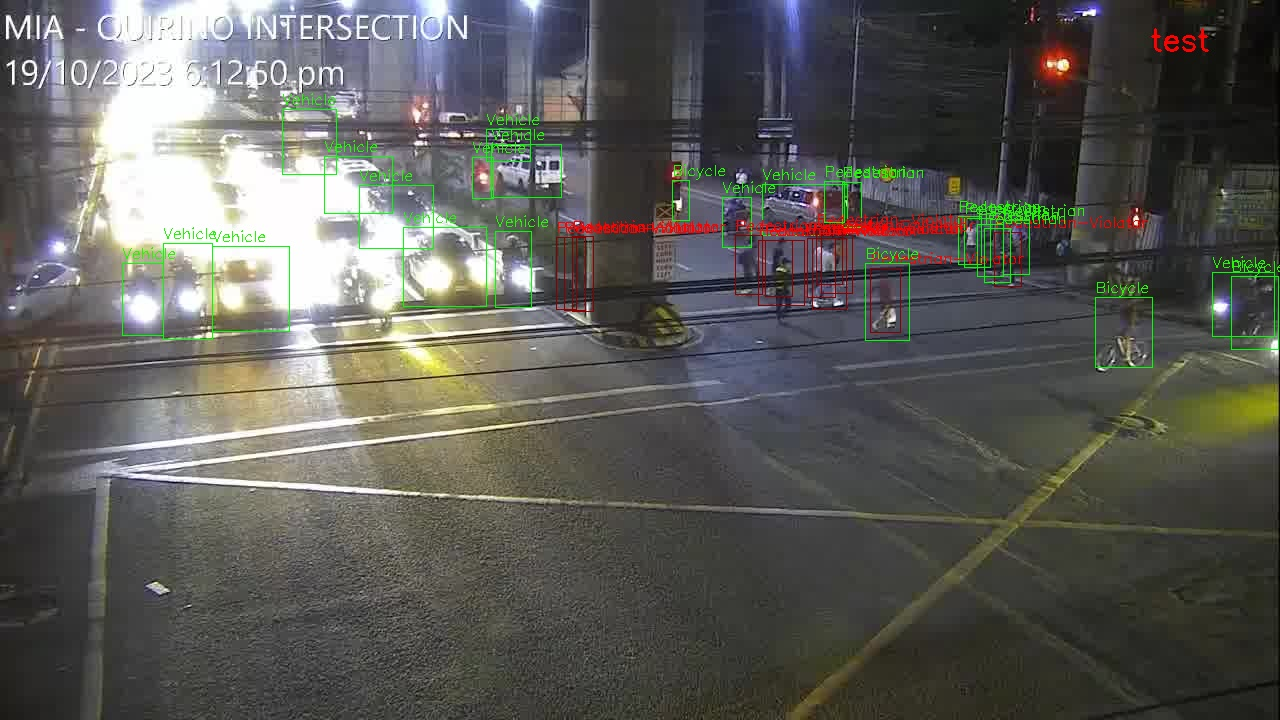
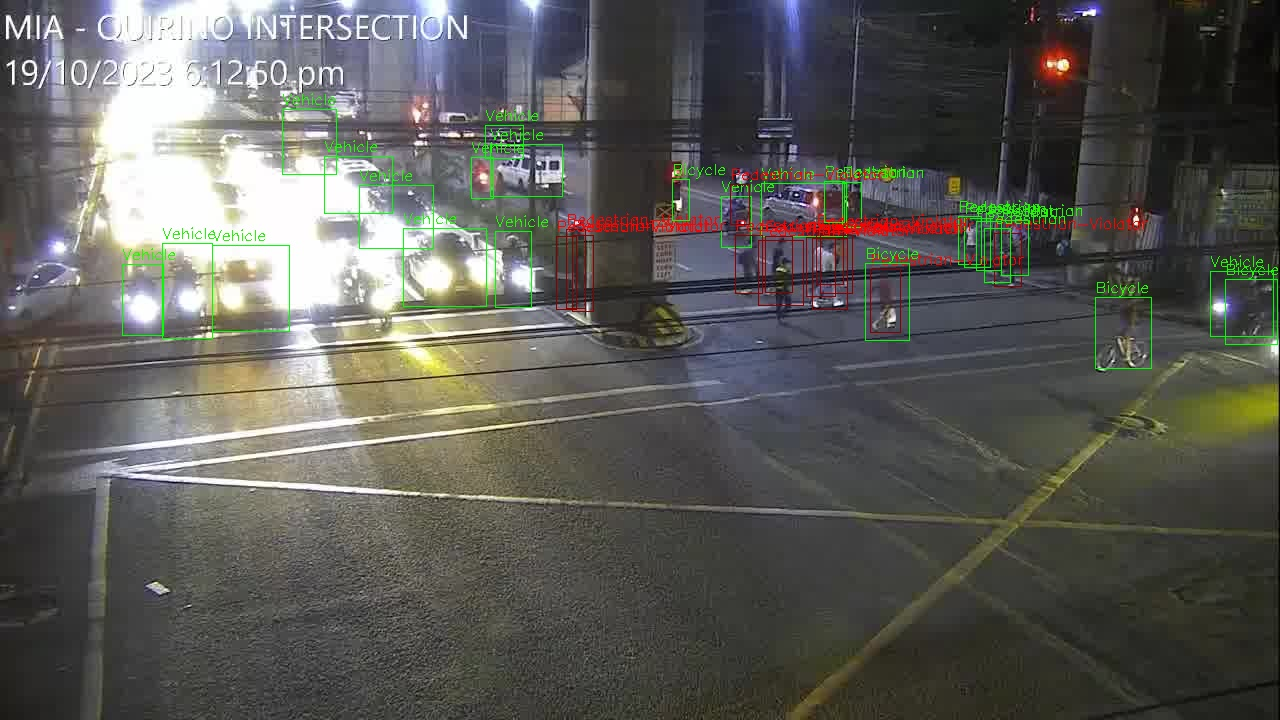
yipee

diff --git a/application.py b/application.py
@@ -33,10 +33,10 @@ if not os.path.exists('output'):
 def load_predicted_images(json_file_name, path_to_image):
     filename = os.path.splitext(os.path.basename(path_to_image))[0]
 
-    IOU_THRESHOLD = 0.90
+    IOU_THRESHOLD = 0.65
     SCORE_THRESHOLD = 0
 
-    USE_NMS = False
+    USE_NMS = True
 
     with open(json_file_name) as f:
         data = json.load(f)
